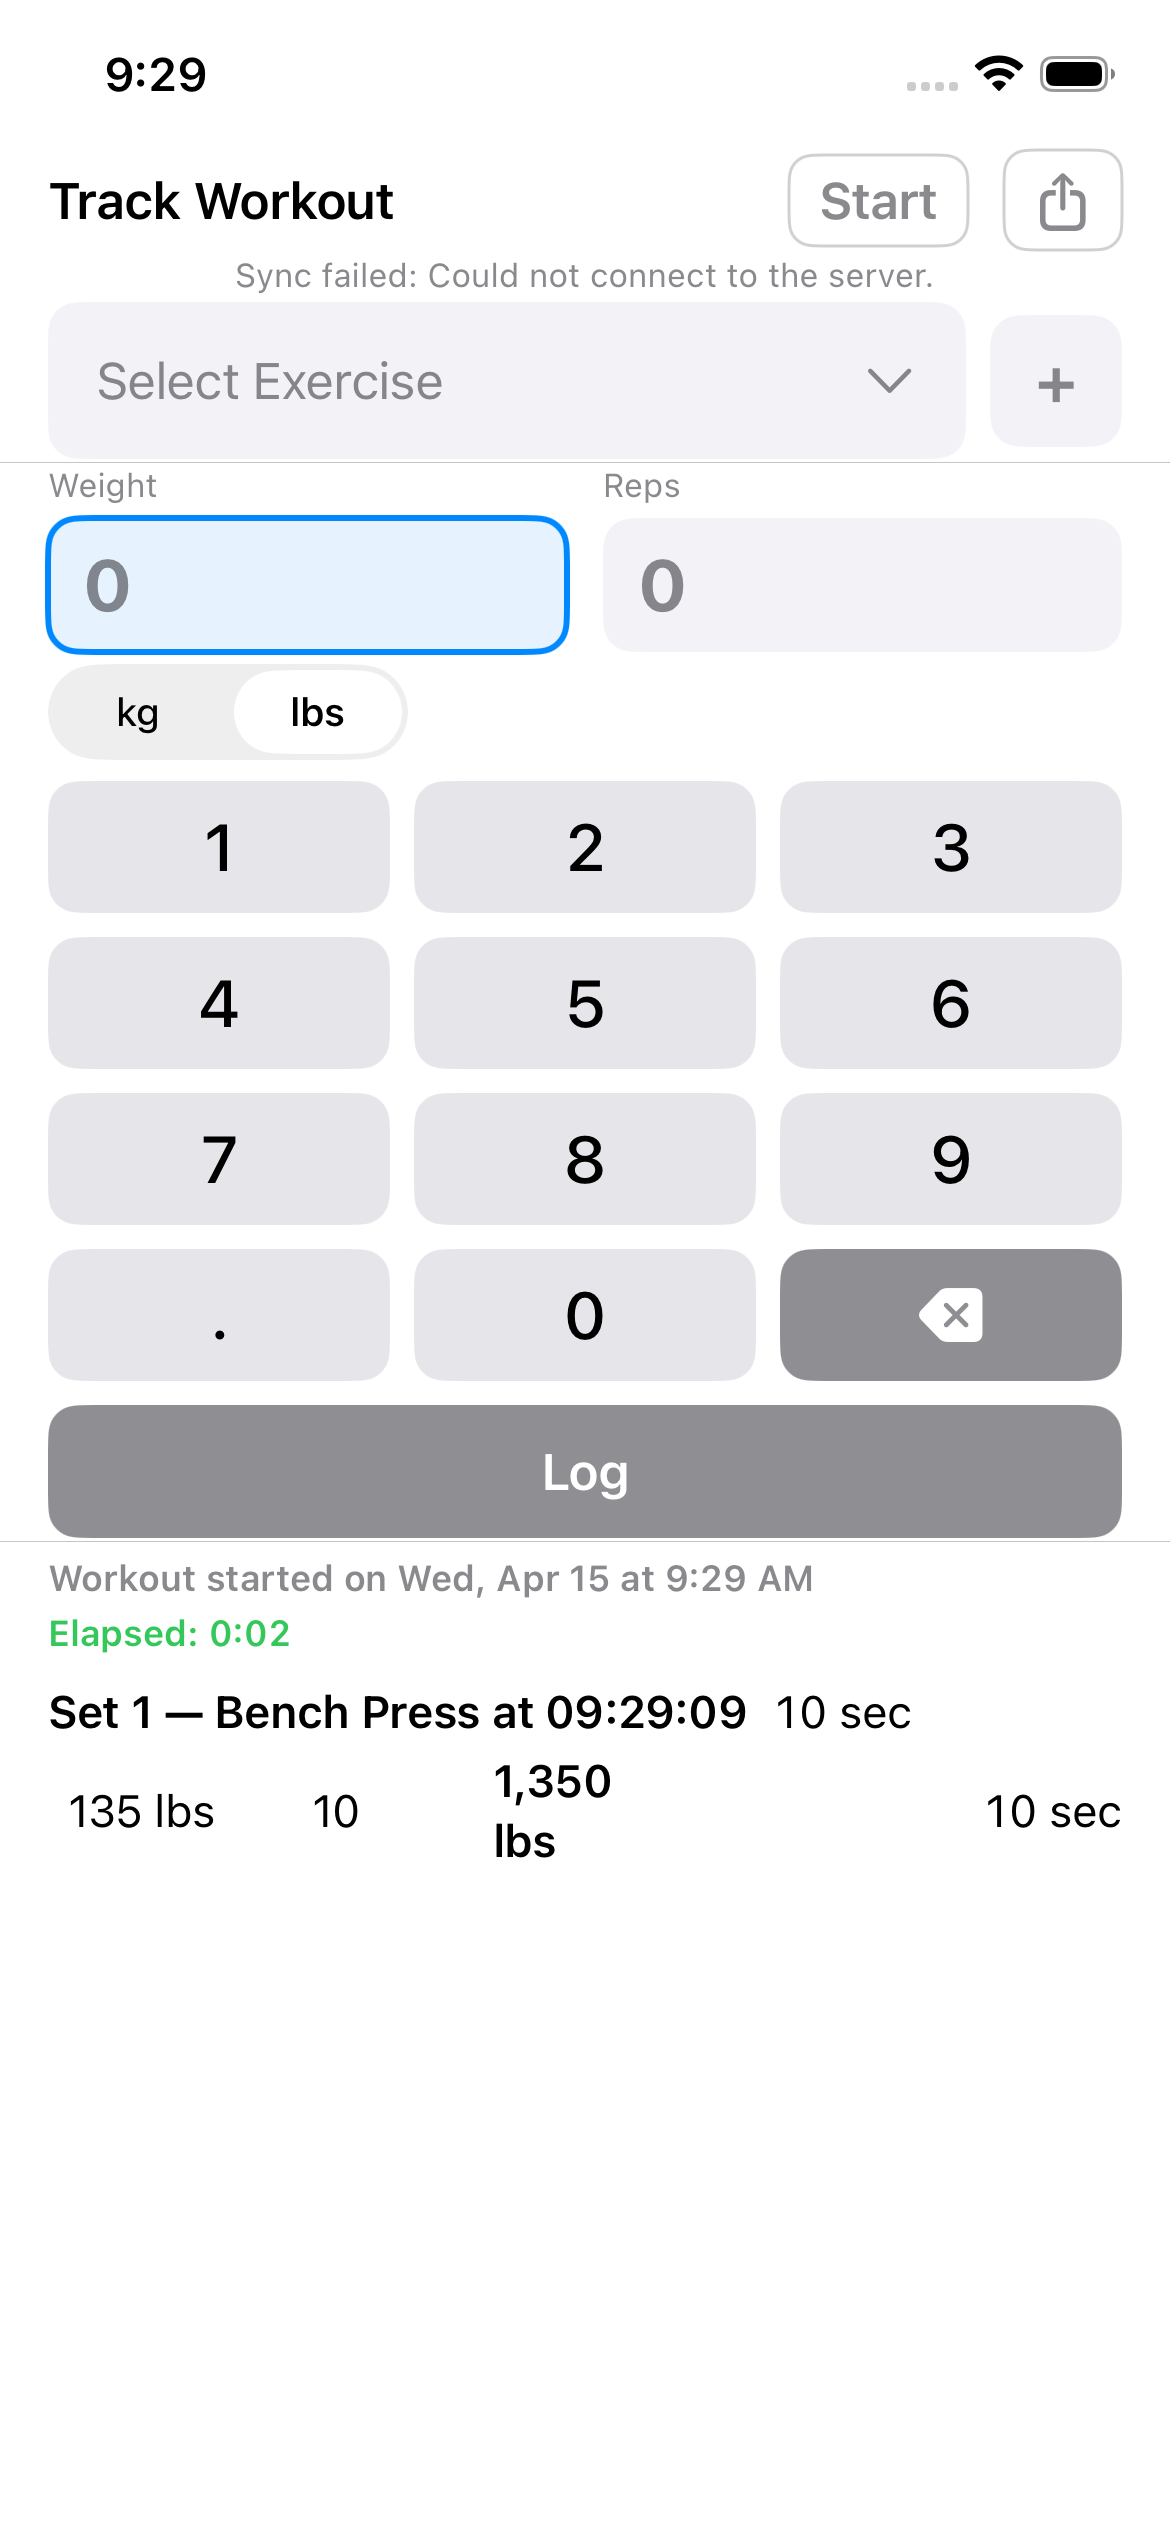
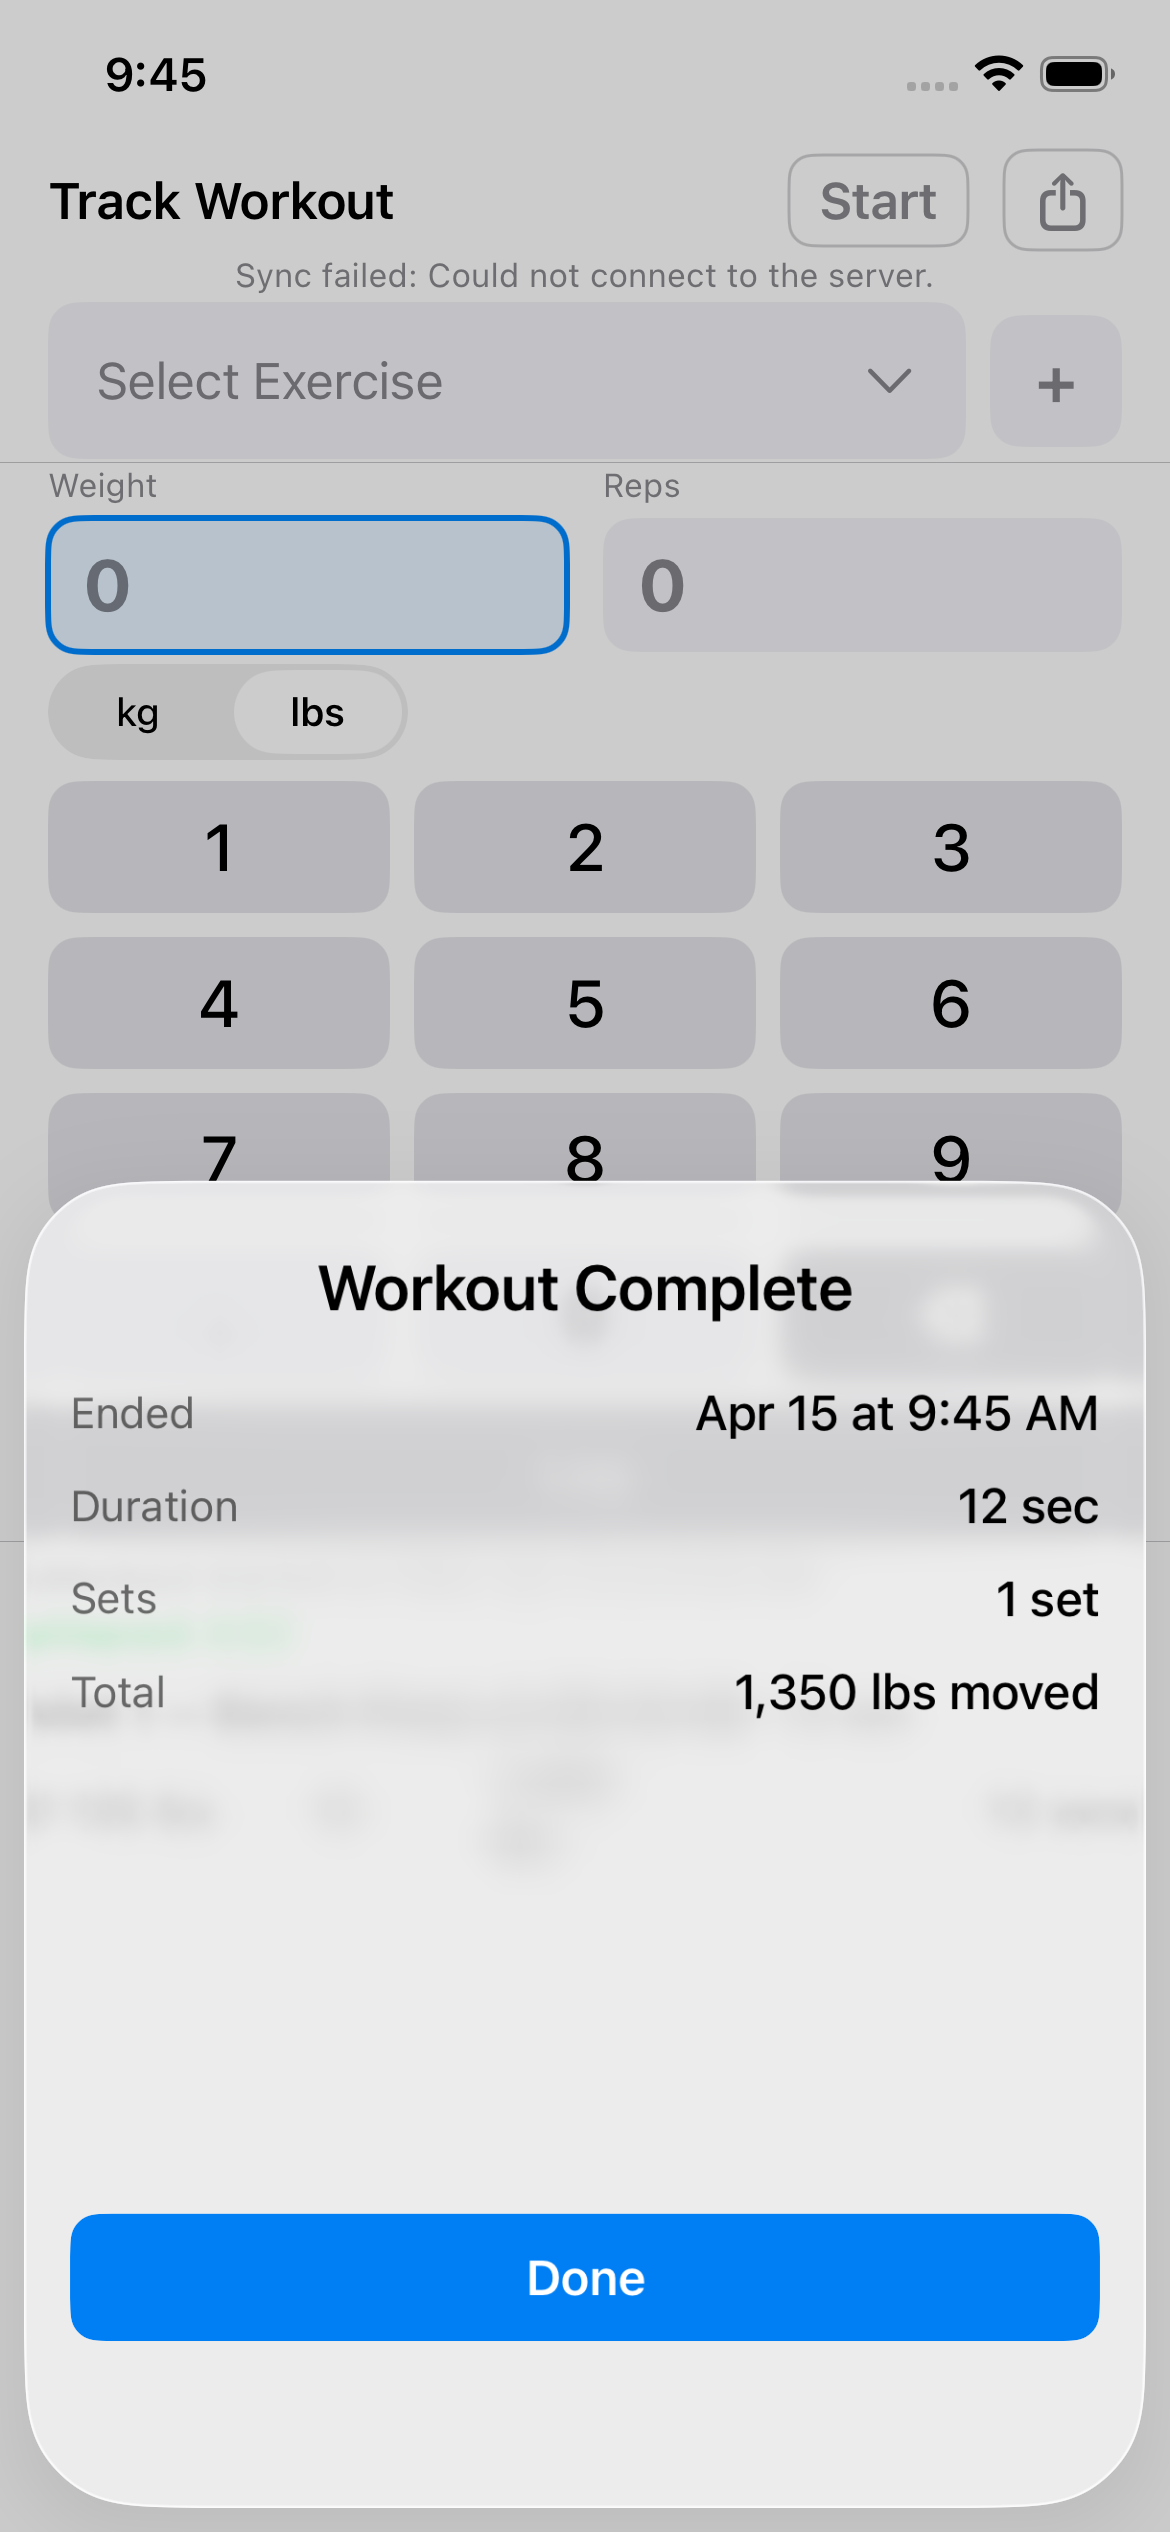
Fix: show Workout Complete summary sheet on Stop
stopWorkout() now captures endTime, builds a WorkoutSummaryData
(endTime, duration, setCount, totalsByUnit), saves the context, then
sets completedSummary which triggers a .sheet(item:) presentation of
WorkoutCompletedSheet.

The sheet shows Workout Complete / Ended / Duration / Sets / Total
per unit / Done button (medium detent).

Script 01 re-run: 8/8 steps PASS with new assertions for
"Workout Complete", "1 set", "1,350 lbs moved". Report in
runs/2026-04-15-script01-rerun.md.

Secondary bug noted for followup: the in-history per-workout summary
still does not render post-Stop (green elapsed timer keeps running);
SwiftUI isn't re-evaluating history with the workout's updated endTime.

diff --git a/TrackWorkout/TrackWorkout/ContentView.swift b/TrackWorkout/TrackWorkout/ContentView.swift
@@ -10,6 +10,7 @@ struct ContentView: View {
     @State private var showCopiedAlert = false
     @State private var showAddMoveAlert = false
     @State private var csvContent: String = ""
+    @State private var completedSummary: WorkoutSummaryData?
     private let exportTimestampFormatter: DateFormatter = {
         let formatter = DateFormatter()
         formatter.locale = Locale(identifier: "en_US_POSIX")
@@ -185,6 +186,11 @@ struct ContentView: View {
             } message: {
                 Text("Custom move creation is coming soon.")
             }
+            .sheet(item: $completedSummary) { summary in
+                WorkoutCompletedSheet(summary: summary) {
+                    completedSummary = nil
+                }
+            }
             .onAppear {
                 viewModel.refreshPendingSyncCount()
             }
@@ -300,18 +306,47 @@ struct ContentView: View {
     private func stopWorkout() {
         guard let workout = viewModel.currentWorkout else { return }
 
-        withAnimation {
-            workout.endTime = Date()
+        let endTime = Date()
+        workout.endTime = endTime
 
-            do {
-                try viewContext.save()
-                viewModel.currentWorkout = nil
-                viewModel.selectedMove = nil
-            } catch {
-                let nsError = error as NSError
-                print("Error stopping workout: \(nsError), \(nsError.userInfo)")
-            }
+        // Stamp endedAt on any still-open latest entry so its duration isn't left dangling.
+        stampEndedAtOnPreviousEntry(now: endTime)
+
+        let summary = buildSummary(for: workout, endTime: endTime)
+
+        do {
+            try viewContext.save()
+        } catch {
+            let nsError = error as NSError
+            print("Error stopping workout: \(nsError), \(nsError.userInfo)")
+            return
         }
+
+        withAnimation {
+            viewModel.currentWorkout = nil
+            viewModel.selectedMove = nil
+        }
+        completedSummary = summary
+    }
+
+    private func buildSummary(for workout: Workout, endTime: Date) -> WorkoutSummaryData {
+        let workoutId = workout.id
+        let start = workout.startTime ?? endTime
+        let entries = logEntries.filter { $0.workoutId != nil && $0.workoutId == workoutId }
+
+        var totals: [String: Double] = [:]
+        for entry in entries where entry.measurementType != "duration" {
+            let unit = entry.weightUnit ?? "lbs"
+            totals[unit, default: 0] += entry.weight * Double(entry.reps)
+        }
+
+        return WorkoutSummaryData(
+            id: UUID(),
+            endTime: endTime,
+            duration: endTime.timeIntervalSince(start),
+            setCount: entries.count,
+            totalsByUnit: totals
+        )
     }
 
 }
@@ -389,6 +424,107 @@ struct IntervalEntry: View {
             )
         }
         .buttonStyle(.plain)
+    }
+}
+
+// MARK: - Workout Summary
+
+struct WorkoutSummaryData: Identifiable {
+    let id: UUID
+    let endTime: Date
+    let duration: TimeInterval
+    let setCount: Int
+    let totalsByUnit: [String: Double]
+}
+
+struct WorkoutCompletedSheet: View {
+    let summary: WorkoutSummaryData
+    let onDone: () -> Void
+
+    private static let endTimeFormatter: DateFormatter = {
+        let f = DateFormatter()
+        f.dateFormat = "MMM d 'at' h:mm a"
+        return f
+    }()
+
+    private var durationText: String {
+        let total = max(0, Int(summary.duration))
+        let hours = total / 3600
+        let minutes = (total % 3600) / 60
+        let seconds = total % 60
+        if hours > 0 {
+            return "\(hours):\(String(format: "%02d", minutes)):\(String(format: "%02d", seconds)) hours"
+        } else if minutes > 0 {
+            return "\(minutes):\(String(format: "%02d", seconds)) min"
+        } else {
+            return "\(seconds) sec"
+        }
+    }
+
+    private var setsText: String {
+        summary.setCount == 1 ? "1 set" : "\(summary.setCount) sets"
+    }
+
+    private var totalLines: [(unit: String, text: String)] {
+        let formatter = NumberFormatter()
+        formatter.numberStyle = .decimal
+        formatter.maximumFractionDigits = 1
+        return summary.totalsByUnit
+            .sorted { $0.key < $1.key }
+            .map { (unit, value) in
+                let number = formatter.string(from: NSNumber(value: value)) ?? "\(value)"
+                return (unit, "\(number) \(unit) moved")
+            }
+    }
+
+    var body: some View {
+        VStack(spacing: 20) {
+            Text("Workout Complete")
+                .font(.title2)
+                .fontWeight(.semibold)
+                .padding(.top, 24)
+
+            VStack(alignment: .leading, spacing: 12) {
+                summaryRow(label: "Ended", value: Self.endTimeFormatter.string(from: summary.endTime))
+                summaryRow(label: "Duration", value: durationText)
+                summaryRow(label: "Sets", value: setsText)
+                if totalLines.isEmpty {
+                    summaryRow(label: "Total", value: "—")
+                } else {
+                    ForEach(totalLines, id: \.unit) { line in
+                        summaryRow(label: "Total", value: line.text)
+                    }
+                }
+            }
+            .padding(.horizontal)
+
+            Spacer()
+
+            Button(action: onDone) {
+                Text("Done")
+                    .font(.headline)
+                    .foregroundColor(.white)
+                    .frame(maxWidth: .infinity)
+                    .padding(.vertical, 12)
+                    .background(Color.blue)
+                    .cornerRadius(10)
+            }
+            .padding(.horizontal)
+            .padding(.bottom, 24)
+        }
+        .presentationDetents([.medium])
+    }
+
+    private func summaryRow(label: String, value: String) -> some View {
+        HStack {
+            Text(label)
+                .font(.subheadline)
+                .foregroundColor(.secondary)
+            Spacer()
+            Text(value)
+                .font(.body)
+                .fontWeight(.medium)
+        }
     }
 }
 

diff --git a/runs/2026-04-15-script01-rerun.md b/runs/2026-04-15-script01-rerun.md
@@ -1,0 +1,54 @@
+# Run: 01-single-set-bench-press (re-run after fix) — 2026-04-15T09:45 PDT
+
+**Platform:** track-workout-ios-swift @ HEAD (uncommitted Stop-summary fix)
+**Harness:** iOS Simulator, iPhone 12, iOS 26.2, via Maestro 2.4.0
+**Script:** https://github.com/blaine-2050/track-workout-core/blob/main/WORKOUT_SCRIPTS/01-single-set-bench-press.md
+**Flow:** `runs/flows/script01-single-set-bench-press.yaml` (now includes Step 7 assertions + Step 8 dismiss)
+
+## Result: 🟢 All 8 steps PASS
+
+```
+Launch app → PASS
+assertVisible Select Exercise, Log → PASS
+Tap Select Exercise → picker opens → PASS
+Tap Bench Press → selected → PASS
+Tap 1, 3, 5 → Weight=135 → PASS
+Tap Reps → switch field → PASS
+Tap 1, 0 → Reps=10 → PASS
+Tap Log → entry in history → PASS
+Tap Stop → summary sheet appears → PASS
+  assertVisible "Workout Complete" → PASS
+  assertVisible "1 set" → PASS
+  assertVisible "1,350 lbs moved" → PASS
+Tap Done → sheet dismisses → PASS
+```
+
+## Fix summary
+
+Added `WorkoutCompletedSheet` + `WorkoutSummaryData` in `ContentView.swift`. `stopWorkout()` now:
+1. Captures `endTime` locally.
+2. Sets `workout.endTime`, stamps `endedAt` on the final entry.
+3. Builds a `WorkoutSummaryData` (endTime, duration, setCount, totalsByUnit).
+4. Saves context.
+5. Clears `currentWorkout` and `selectedMove`.
+6. Sets `completedSummary`, which triggers the sheet via `.sheet(item:)`.
+
+Sheet shows: **Workout Complete**, Ended (formatted date), Duration (human-readable), Sets count, Total by unit ("1,350 lbs moved"), and a **Done** button. Medium presentation detent so user can see prior UI.
+
+Screenshot: [step7-stopped.png](screens/2026-04-15-script01-step7-stopped.png).
+
+## Observations
+
+- **Primary bug (no summary on Stop) is fixed.** Script 01 pass criteria now fully met.
+- **Script 03 should also now pass** (same summary surface), modulo one caveat below.
+- **Secondary bug surfaced:** the in-history per-workout summary (the private `WorkoutSummaryView` in `EventHistory.swift` that shows "Workout ended at …" + duration/sets/total below a completed workout) still does not render after Stop. Visible in [step8-dismissed.png](screens/2026-04-15-script01-step8-dismissed.png): history still shows green `Elapsed: 0:04` timer for the just-stopped workout. Likely cause: `@FetchRequest<Workout>` in `ContentView` does not propagate an in-place attribute change (endTime) to the child `EventHistory` view's rendering. The Workout record is saved (modal reads its duration correctly), but SwiftUI isn't re-evaluating the history bucket with the updated endTime.
+- **Stale-timer bug (from Step 0 and first run)** is the same class of bug — both relate to the in-history view reading stale workout state.
+
+## Next actions
+
+- [ ] **Fix in-history summary refresh.** Two options:
+  1. Force EventHistory to observe the current workout's endTime explicitly (pass it as a binding).
+  2. Refetch workouts after `stopWorkout()` via `viewContext.refreshAllObjects()` or an explicit `viewContext.processPendingChanges()` + a state bump to trigger view rebuild.
+- [ ] **Then re-run script 01 once more** to verify green timer is gone post-Stop.
+- [ ] **Write script 02 (sticky inputs)** and **script 03 (stop summary)** flows.
+- [ ] **Tackle stale-timer bug** (elapsed calc should clamp to workout-active time).
